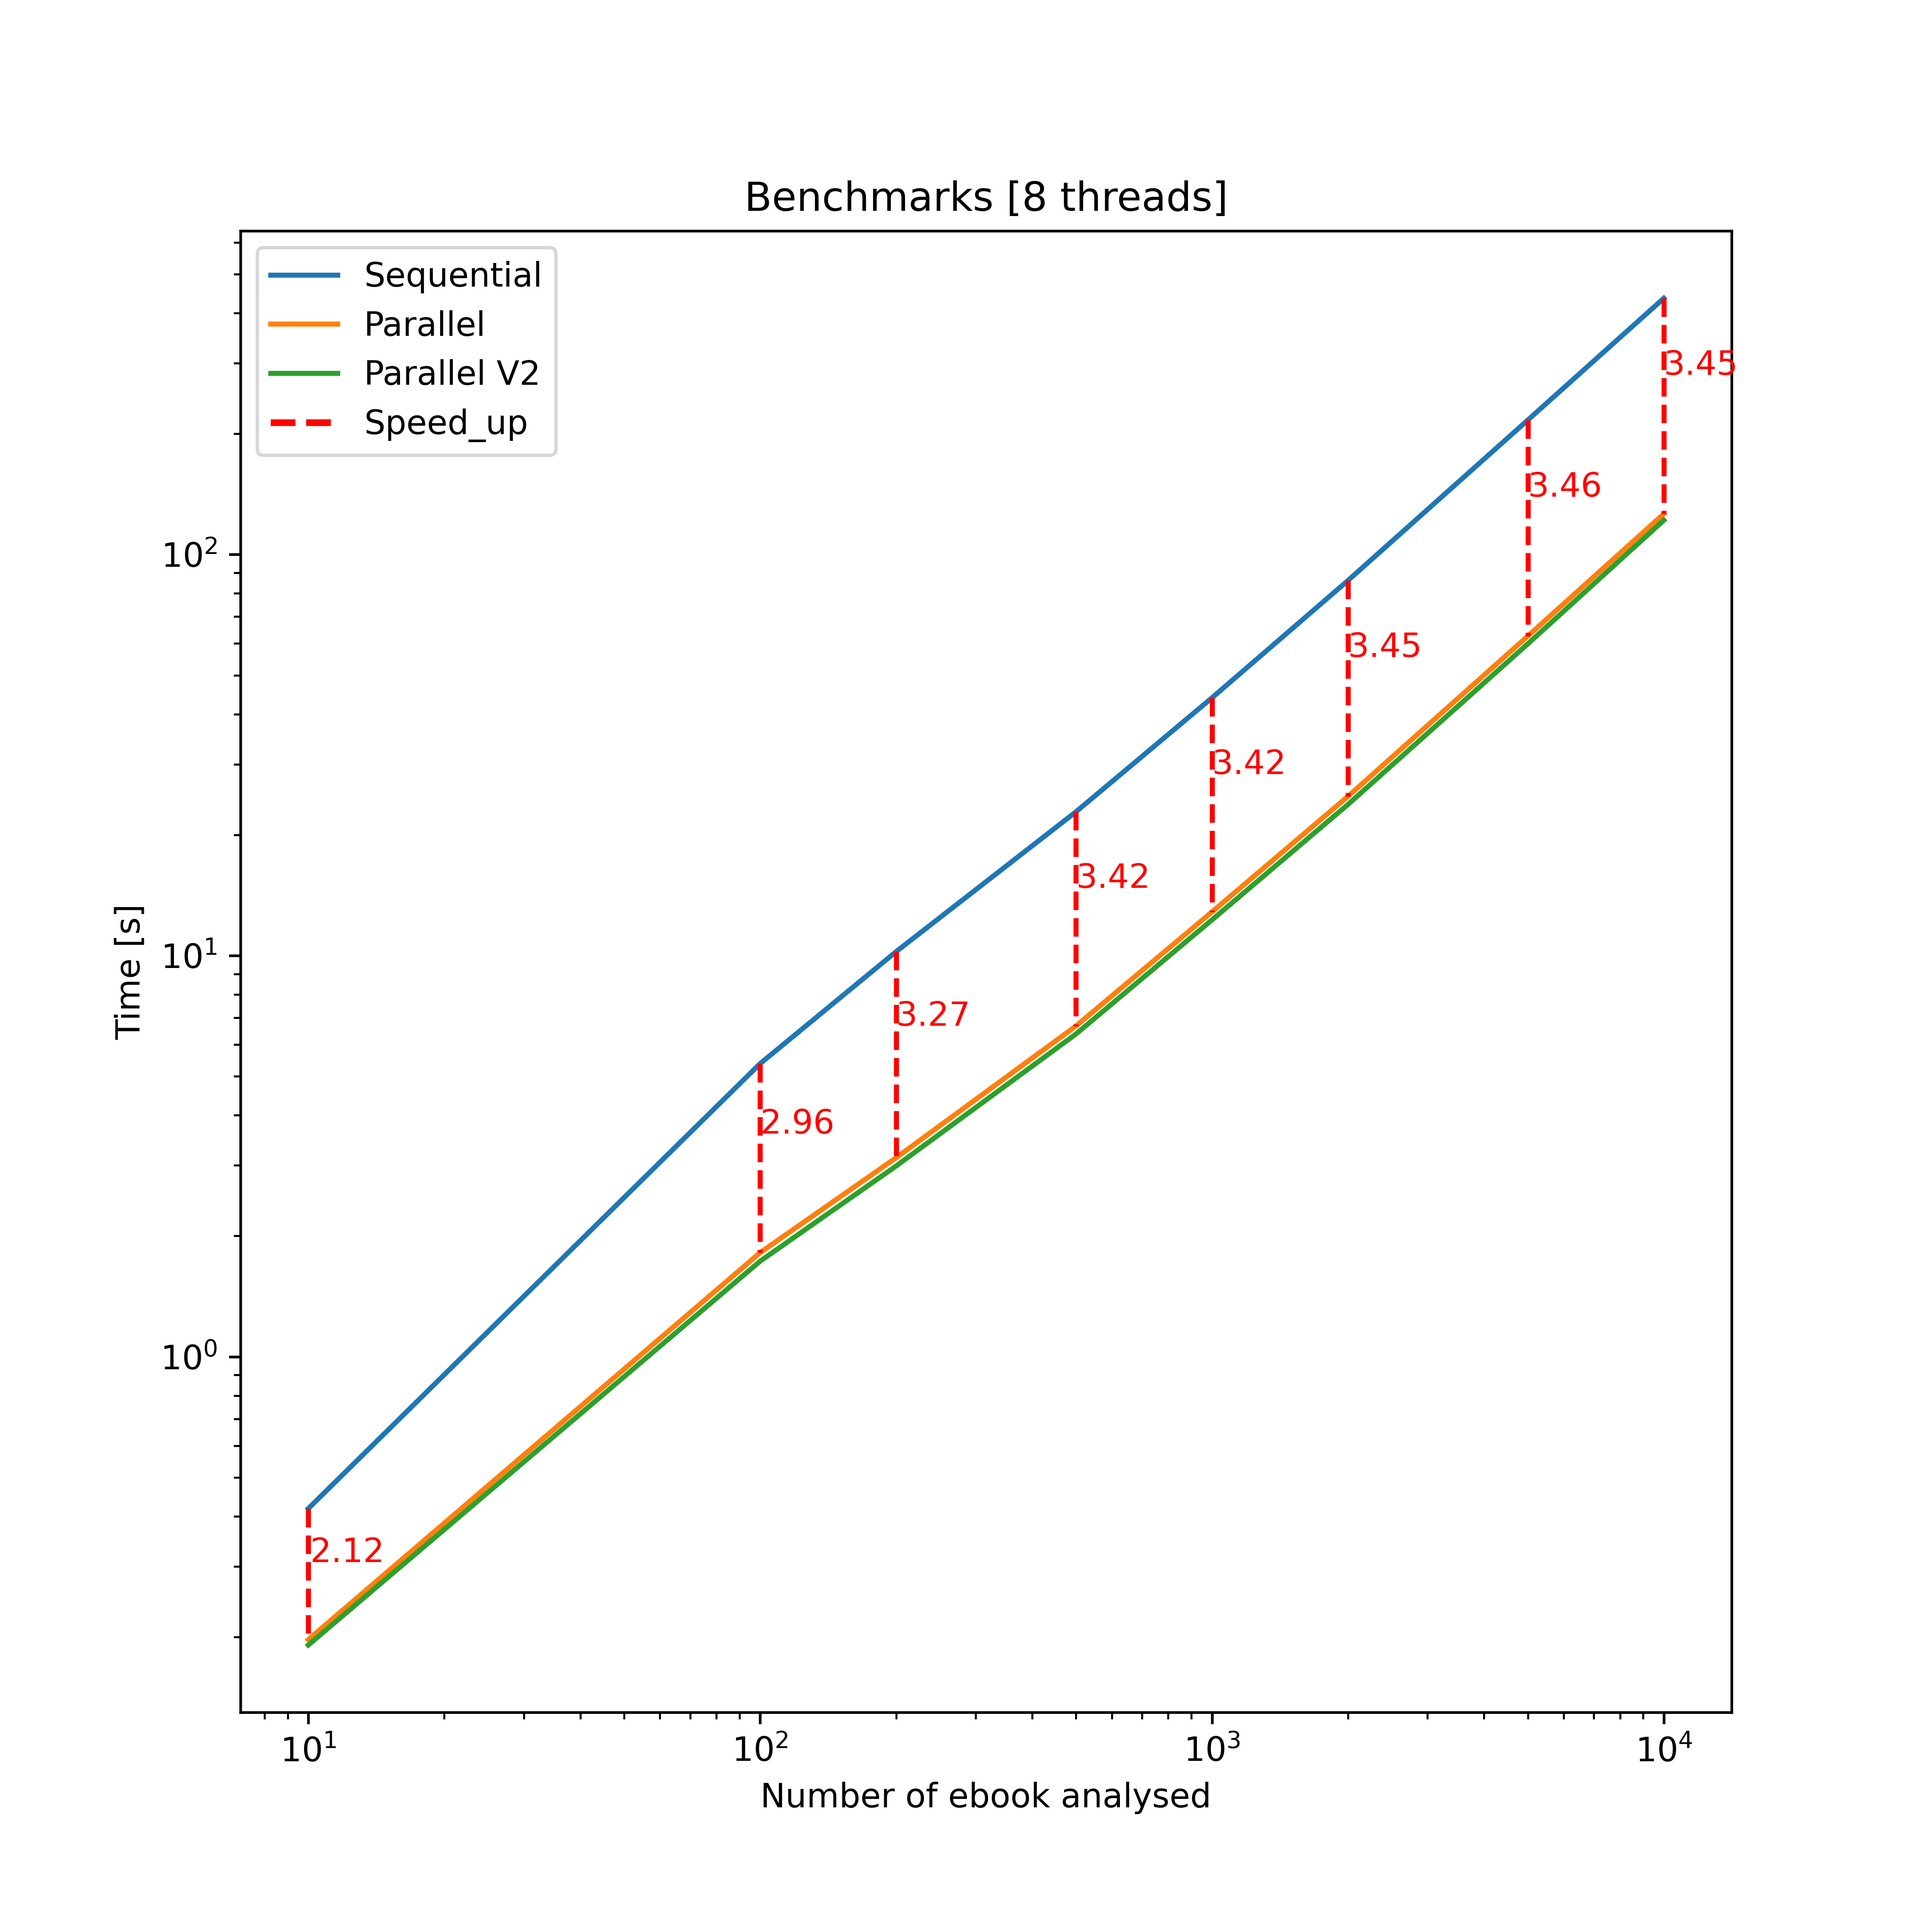
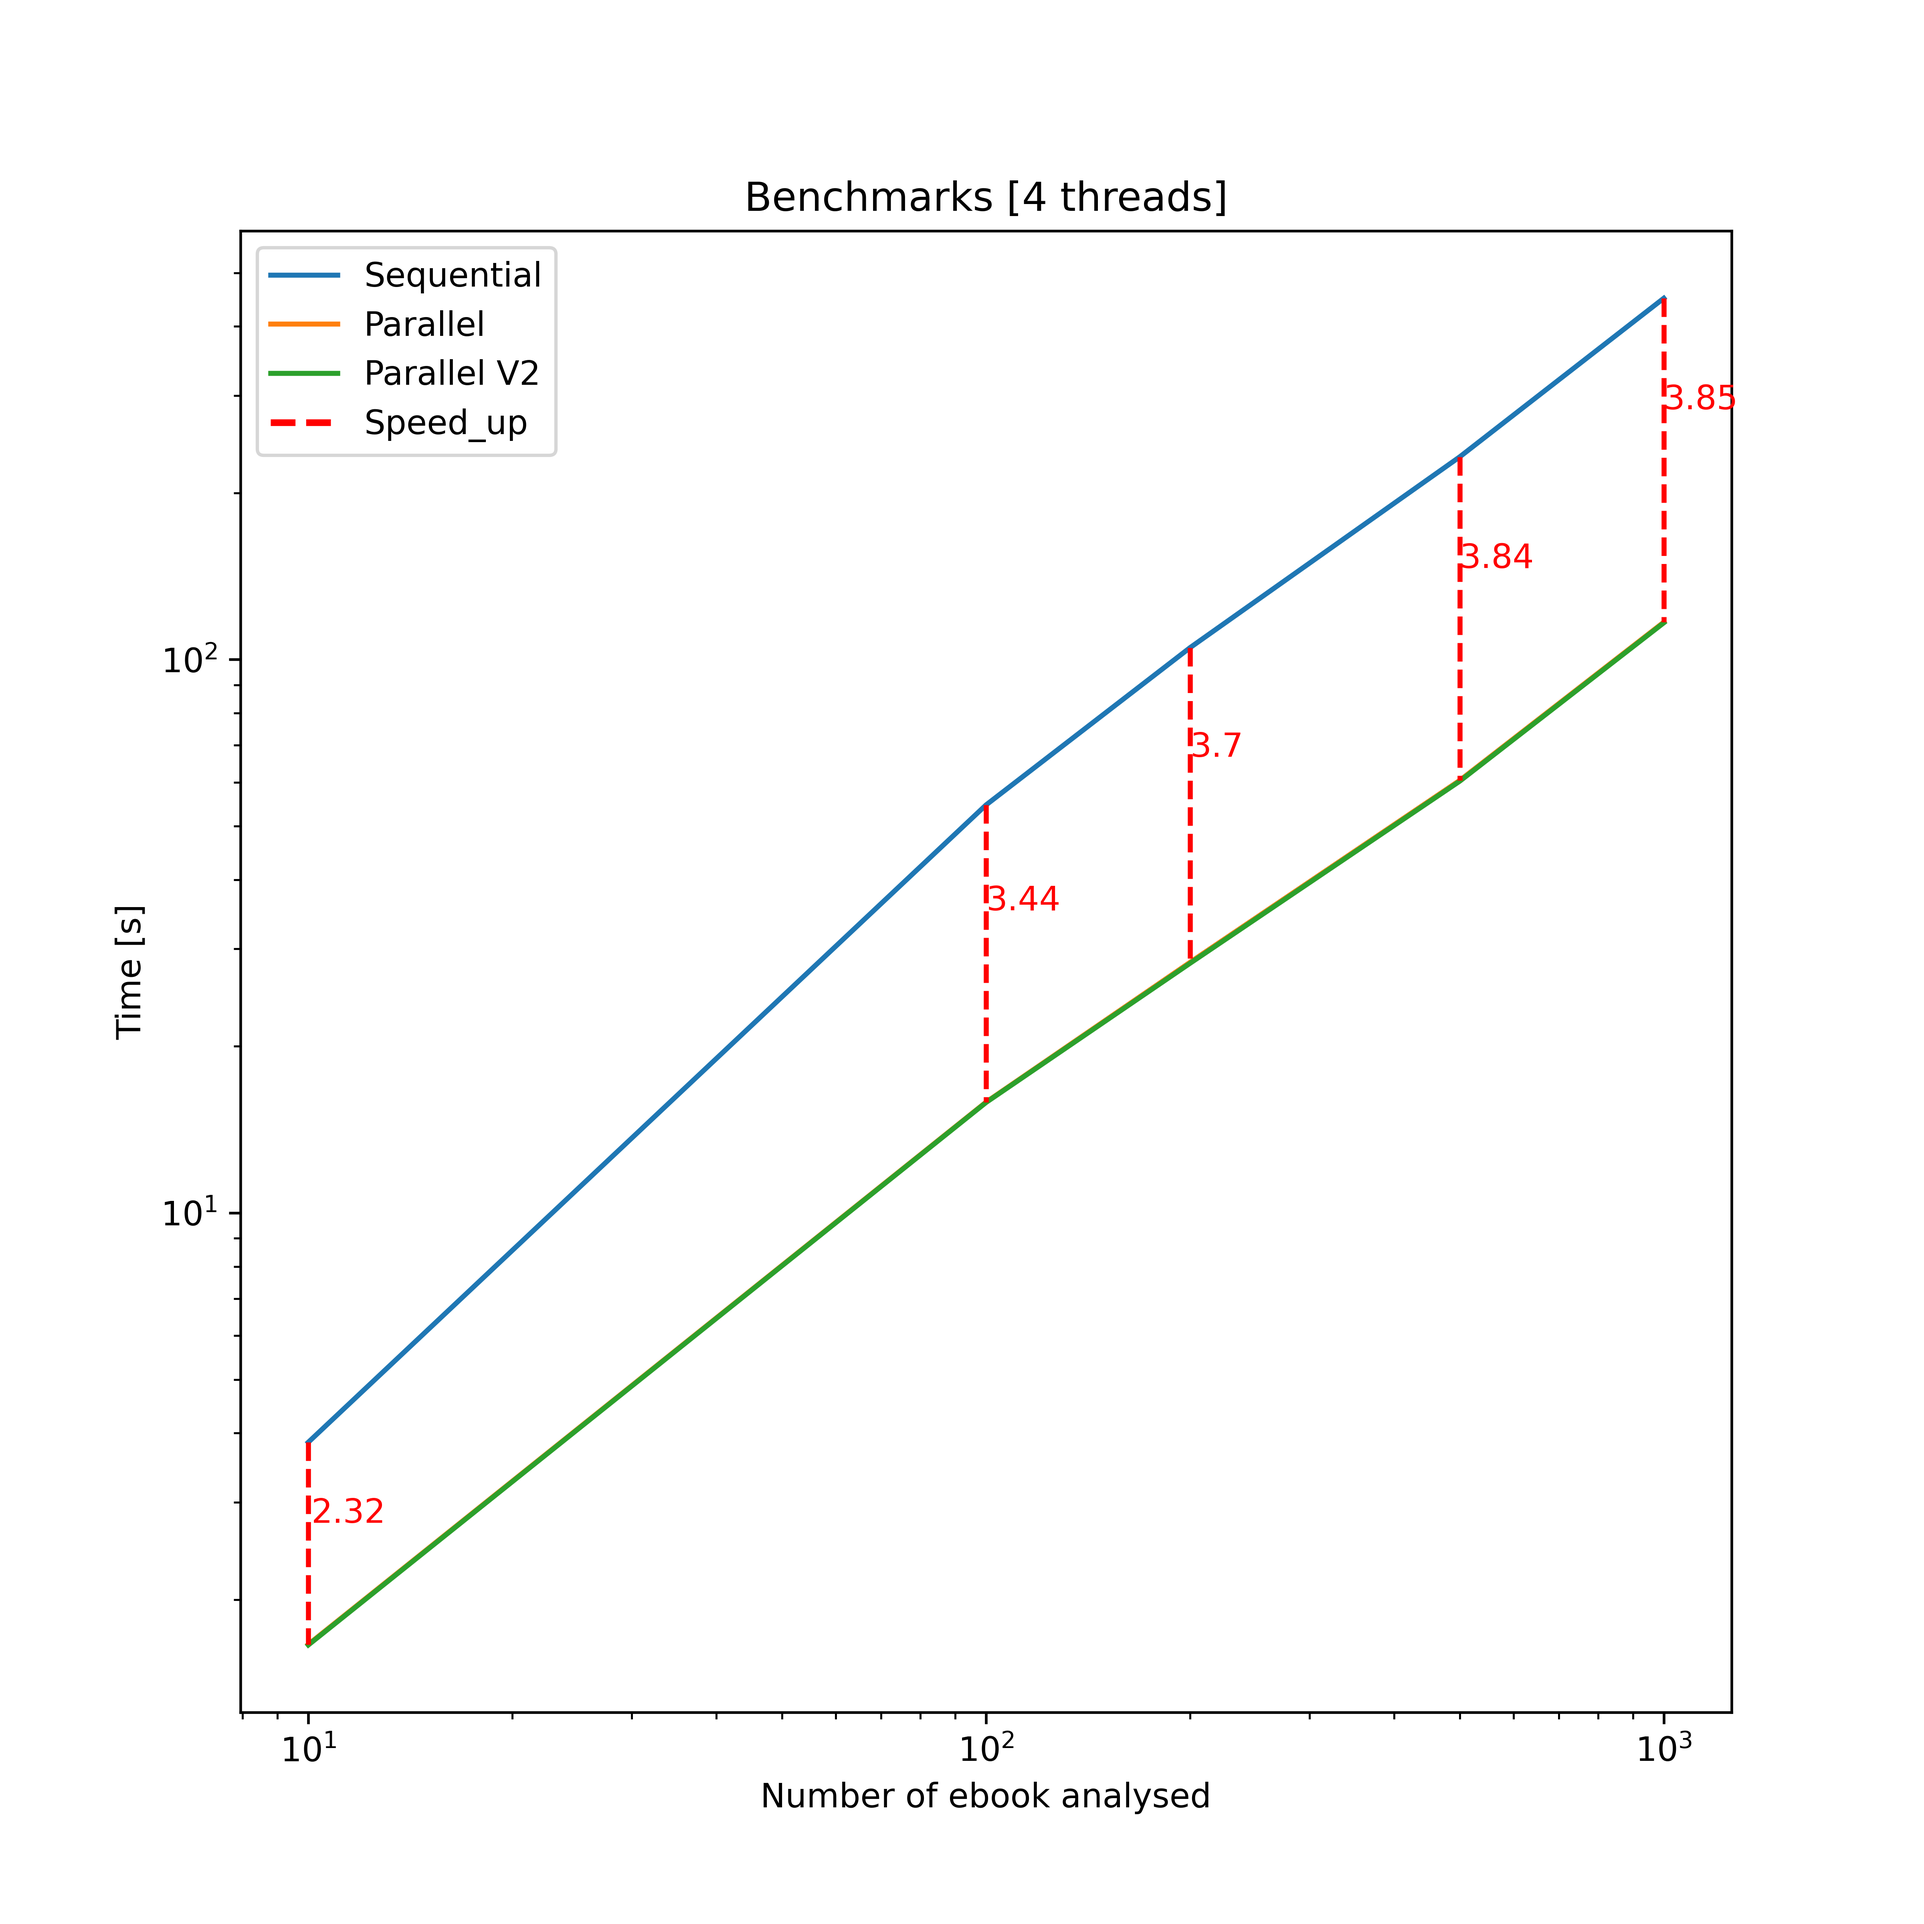
Uploaded new benchmarks

diff --git a/python_scripts/graph_tracer.py b/python_scripts/graph_tracer.py
@@ -115,11 +115,11 @@ def main():
     # #trace graph
     # trace_time_ebooks_graph(benchmarks_ebooks_data, True)
 
-    # # load benchmarks_threads data
-    # with open(f"{MEDIA_PATH_CPP}/benchmarks_threads.json",'r') as json_file:
-    #     benchmarks_threads_data = json.load(json_file)
-    # #trace graph
-    # trace_time_threads_graph(benchmarks_threads_data, True)
+    # load benchmarks_threads data
+    with open(f"{MEDIA_PATH_CPP}/benchmarks_threads.json",'r') as json_file:
+        benchmarks_threads_data = json.load(json_file)
+    #trace graph
+    trace_time_threads_graph(benchmarks_threads_data, True)
 
 
     # # Python graphs
@@ -129,11 +129,11 @@ def main():
     # #trace graph
     # trace_time_ebooks_graph(benchmarks_ebooks_data, False)
 
-    # load benchmarks_process data
-    with open(f"{MEDIA_PATH_PYTHON}/benchmarks_process.json",'r') as json_file:
-        benchmarks_process_data = json.load(json_file)
-    #trace graph
-    trace_time_threads_graph(benchmarks_process_data, False)
+    # # load benchmarks_process data
+    # with open(f"{MEDIA_PATH_PYTHON}/benchmarks_process.json",'r') as json_file:
+    #     benchmarks_process_data = json.load(json_file)
+    # #trace graph
+    # trace_time_threads_graph(benchmarks_process_data, False)
 
 if __name__ == "__main__":
     main()
